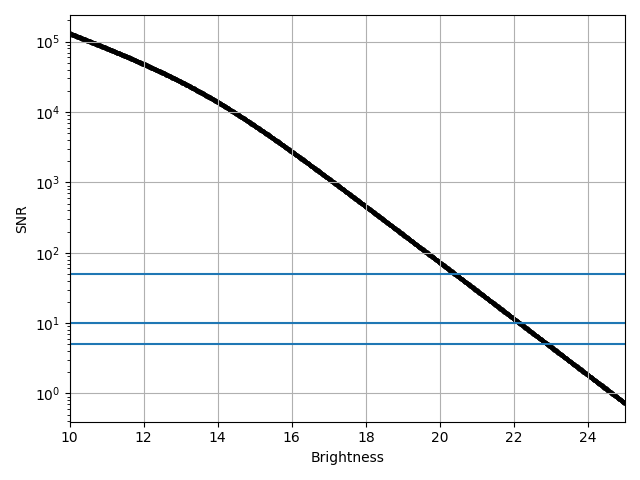
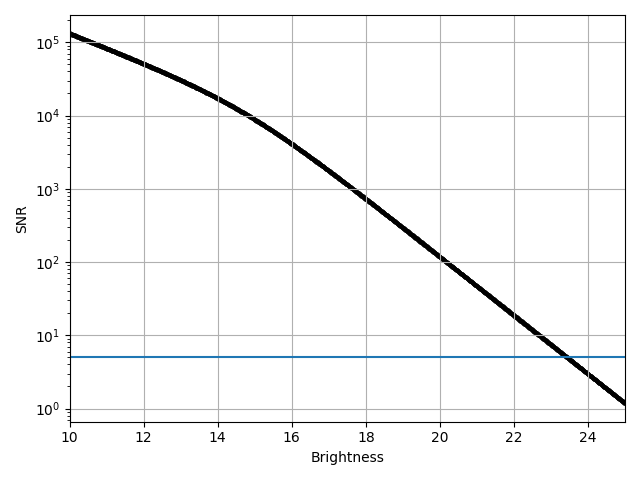
change the example to 50 percentile observing condition -> seeing=0.8 and set snr to 5.

diff --git a/example_script.py b/example_script.py
@@ -21,10 +21,11 @@ def main():
 
     # Initialise
     hawki = etc.HawkIExposureTimeCalculator()
-    hawki.set_observing_condition(seeing=1.3)
+    # 50-percentile obsering condition has a seeing of 0.8"
+    hawki.set_observing_condition(seeing=0.8)
     hawki.get_snr(FILTER_NAME, brightness=mag, ndit=NDIT, dit=DIT)
     hawki.print_summary()
-    hawki.plot(snr=[5, 10, 50], savefig=True)
+    hawki.plot(snr=[5], savefig=True)
 
 
 if __name__ == "__main__":
